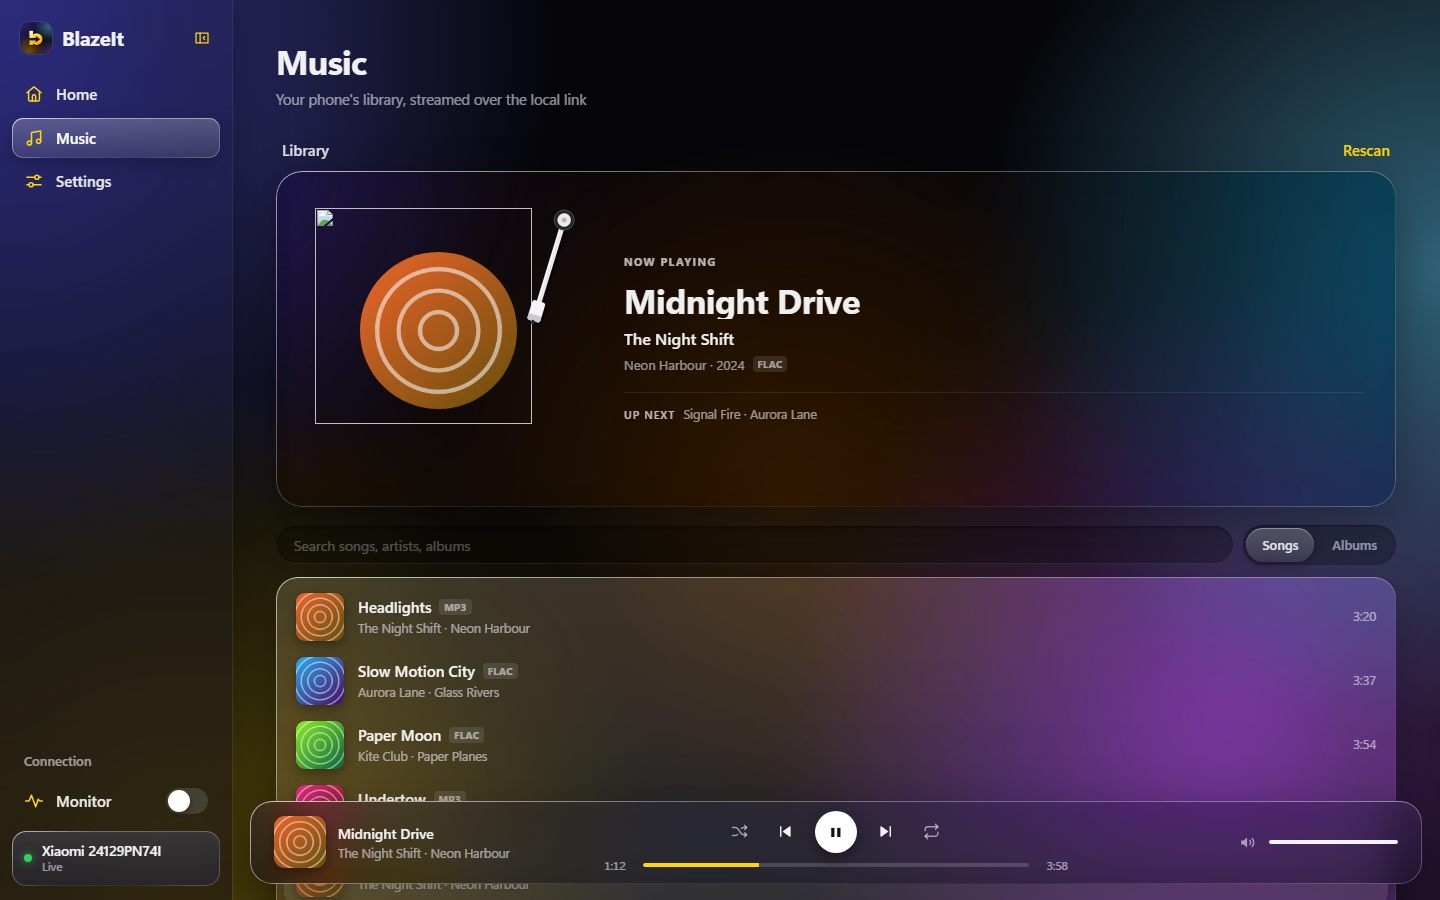
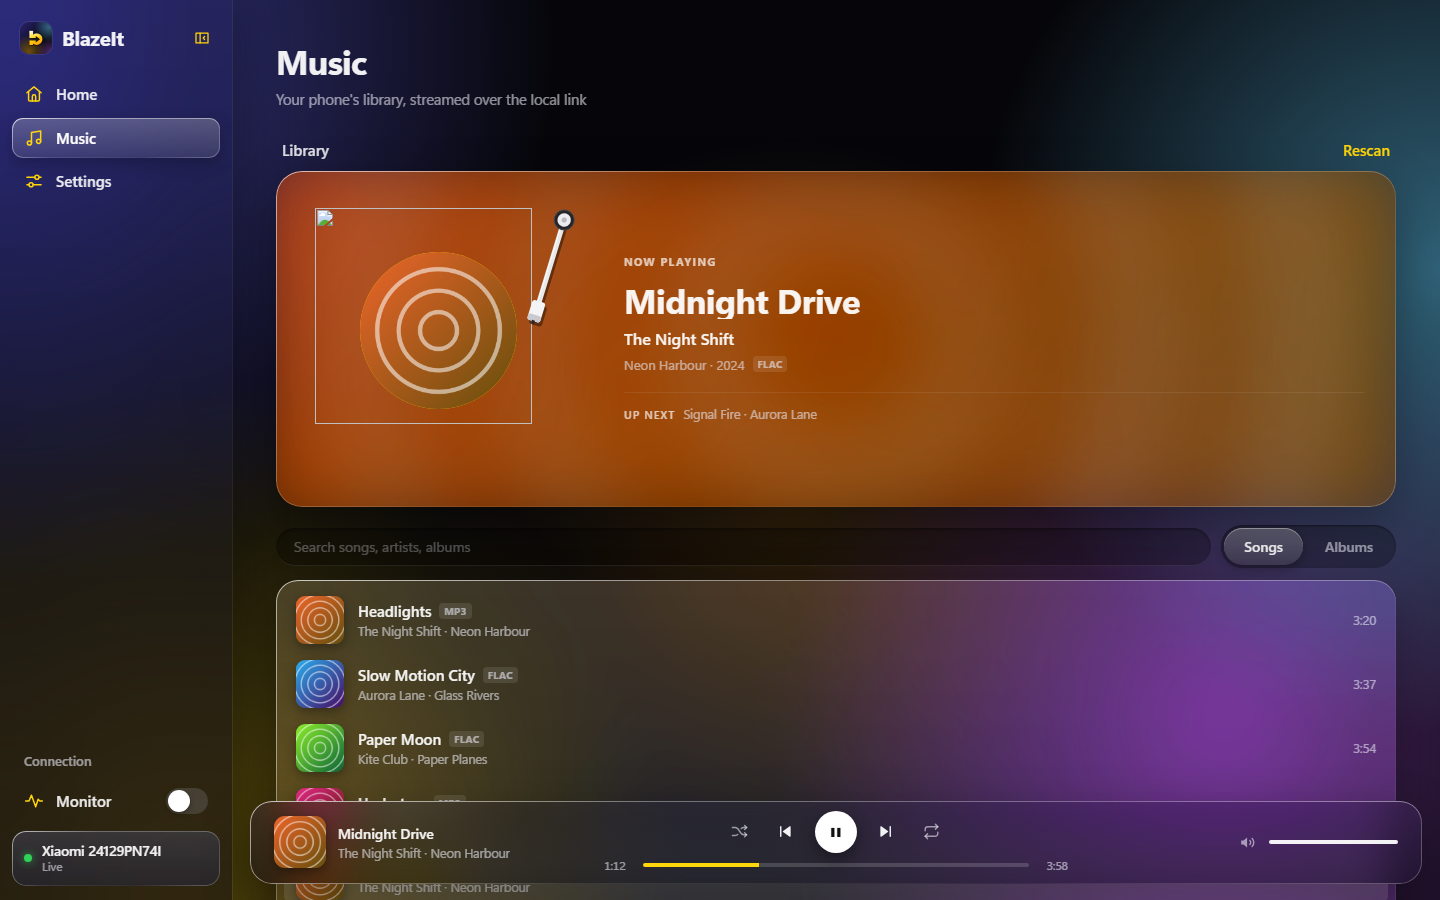
Page: fills the width when the sidebar folds; albums you can reach and play
The page no longer stops at a fixed width, so folding the sidebar or closing the monitor
gives the room to the page. Album tiles are buttons (Tab, Enter) with a play button over
the cover. An opened album shows a header like iOS Music -- large cover, title, artist,
song count, length and year -- with Play and Shuffle, and a clear back button. The
Songs/Albums switch is larger.

diff --git a/app/src/main/assets/bridge.html b/app/src/main/assets/bridge.html
@@ -685,6 +685,43 @@
   .steps li::marker { color: var(--accent); font-weight: 700; }
 
   @media (max-width: 900px) { .tabs::before, .side-foot::before { display: none; } }
+
+  /* the page fills whatever the sidebar and the monitor leave, folded or not */
+  .main > * { max-width: none; }
+
+  /* Songs / Albums: a proper switch */
+  #music-view button { padding: 8px 20px; font-size: 14px; }
+
+  /* albums: buttons you can reach with the keyboard, with a play button over the cover */
+  .albums { grid-template-columns: repeat(auto-fill, minmax(170px, 1fr)); gap: 18px 14px; }
+  button.album { display: block; width: 100%; padding: 8px; border: 0; border-radius: 16px; background: transparent; color: inherit; font: inherit; text-align: left; cursor: pointer; }
+  button.album:focus-visible { outline: 2px solid var(--accent); outline-offset: 2px; }
+  .album .art { position: relative; }
+  .album-play { position: absolute; right: 10px; bottom: 10px; width: 40px; height: 40px; border-radius: 50%; display: grid; place-items: center;
+    color: #111; background: linear-gradient(180deg, #FFE45C, #FFC400); box-shadow: 0 6px 16px rgba(0,0,0,.45);
+    opacity: 0; transform: translateY(6px); transition: opacity .15s, transform .15s; }
+  .album-play svg { width: 20px; height: 20px; margin-left: 2px; }
+  button.album:hover .album-play, button.album:focus-visible .album-play { opacity: 1; transform: none; }
+  .album-play:hover { filter: brightness(1.08); }
+
+  /* an opened album, as iOS Music shows it */
+  .album-page { display: block; margin: 0 0 14px; }
+  .album-page .back { display: inline-flex; align-items: center; gap: 4px; margin: 0 0 14px -6px; padding: 6px 12px 6px 6px; border: 0; border-radius: 999px;
+    background: transparent; color: var(--accent); font: inherit; font-size: 15px; font-weight: 600; cursor: pointer; }
+  .album-page .back:hover { background: rgba(255,214,10,.1); }
+  .album-page .back svg { width: 20px; height: 20px; fill: none; stroke: currentColor; stroke-width: 2.2; stroke-linecap: round; stroke-linejoin: round; }
+  .album-head { display: flex; align-items: flex-end; gap: 28px; padding: 22px; border-radius: 26px;
+    background: var(--glass-fill); box-shadow: var(--lift); position: relative; }
+  .album-cover .cover { width: 200px; height: 200px; flex: 0 0 200px; border-radius: 16px; box-shadow: 0 18px 44px rgba(0,0,0,.5); font-size: 48px; }
+  .album-info { min-width: 0; }
+  .album-info .kicker { font-size: 12px; font-weight: 700; letter-spacing: 1.2px; text-transform: uppercase; color: var(--sub); }
+  .album-info h2 { margin: 6px 0 2px; font-size: 30px; font-weight: 700; letter-spacing: -.5px; line-height: 1.12; }
+  .album-info .by { font-size: 17px; font-weight: 600; color: var(--accent); }
+  .album-info .facts { margin-top: 6px; font-size: 13px; color: var(--sub); }
+  .album-actions { display: flex; gap: 10px; margin-top: 18px; }
+  .album-actions .btn { height: 40px; padding: 0 22px; gap: 8px; }
+  .album-actions .btn svg { width: 17px; height: 17px; }
+  @media (max-width: 700px) { .album-head { flex-direction: column; align-items: flex-start; } }
 </style>
 </head>
 <body>
@@ -2424,23 +2461,37 @@ function renderMusic() {
   host.innerHTML = ""; more.innerHTML = "";
 
   if (music.album !== null) {
-    var a = music.tracks.find(function (t) { return t.albumId === music.album; });
+    var tracks = music.tracks.filter(function (t) { return t.albumId === music.album; });
+    var a = tracks[0];
+    var secs = tracks.reduce(function (n, t) { return n + t.durationMs / 1000; }, 0);
+    var years = tracks.map(function (t) { return t.year; }).filter(function (y) { return y > 0; });
     crumb.hidden = false;
-    crumb.innerHTML = "";
-    var back = document.createElement("button");
-    back.className = "btn sm ghost";
-    back.textContent = "← All albums";
-    back.onclick = function () { music.album = null; music.view = "albums"; setViewButtons(); renderMusic(); };
-    var playAll = document.createElement("button");
-    playAll.className = "btn sm";
-    playAll.textContent = "Play album";
-    playAll.onclick = function () { startQueue(musicMatches(), 0); };
-    var title = document.createElement("span");
-    title.className = "meta";
-    title.style.alignSelf = "center";
-    title.textContent = a ? a.album + " · " + a.artist : "";
-    crumb.appendChild(back); crumb.appendChild(playAll); crumb.appendChild(title);
+    crumb.className = "album-page";
+    crumb.innerHTML =
+      '<button type="button" class="back" id="album-back">' +
+        '<svg viewBox="0 0 24 24" aria-hidden="true"><path d="M14.5 5.5 8 12l6.5 6.5"/></svg>Albums</button>' +
+      '<div class="album-head">' +
+        '<div class="album-cover"></div>' +
+        '<div class="album-info">' +
+          '<div class="kicker">Album</div>' +
+          '<h2></h2><div class="by"></div>' +
+          '<div class="facts"></div>' +
+          '<div class="album-actions">' +
+            '<button type="button" class="btn" id="album-play">' + "<svg viewBox=\"0 0 24 24\" aria-hidden=\"true\"><path fill=\"currentColor\" d=\"M8 5.6v12.8a.9.9 0 0 0 1.4.8l10-6.4a.9.9 0 0 0 0-1.6l-10-6.4A.9.9 0 0 0 8 5.6Z\"/></svg>" + 'Play</button>' +
+            '<button type="button" class="btn ghost" id="album-shuffle">' + "<svg viewBox=\"0 0 24 24\" aria-hidden=\"true\" fill=\"none\" stroke=\"currentColor\" stroke-width=\"2\" stroke-linecap=\"round\" stroke-linejoin=\"round\"><path d=\"M3 7h3.5c2.5 0 3.8 1.3 5.3 4.2l.4.6c1.5 2.9 2.8 4.2 5.3 4.2H21\"/><path d=\"M3 17h3.5c1.4 0 2.4-.4 3.3-1.2M14.2 8.2C15.1 7.4 16.1 7 17.5 7H21\"/><path d=\"m18.5 4.5 2.5 2.5-2.5 2.5M18.5 13.5l2.5 2.5-2.5 2.5\"/></svg>" + 'Shuffle</button>' +
+          '</div>' +
+        '</div>' +
+      '</div>';
+    crumb.querySelector(".album-cover").appendChild(coverEl("cover", music.album));
+    crumb.querySelector("h2").textContent = a ? a.album : "";
+    crumb.querySelector(".by").textContent = a ? a.artist : "";
+    crumb.querySelector(".facts").textContent = tracks.length + (tracks.length === 1 ? " song" : " songs") +
+      " · " + Math.round(secs / 60) + " min" + (years.length ? " · " + Math.max.apply(null, years) : "");
+    $("album-back").onclick = function () { music.album = null; music.view = "albums"; setViewButtons(); renderMusic(); };
+    $("album-play").onclick = function () { playAlbum(music.album, false); };
+    $("album-shuffle").onclick = function () { playAlbum(music.album, true); };
   } else {
+    crumb.className = "actions";
     crumb.hidden = true;
   }
 
@@ -2504,9 +2555,18 @@ function renderAlbums(host) {
   var grid = document.createElement("div");
   grid.className = "albums";
   albums.forEach(function (a) {
-    var tile = document.createElement("div");
+    var tile = document.createElement("button");
+    tile.type = "button";
     tile.className = "album";
-    tile.appendChild(coverEl("art", a.albumId));
+    tile.setAttribute("aria-label", a.album + " by " + a.artist + ", " + a.count + (a.count === 1 ? " track" : " tracks"));
+    var art = coverEl("art", a.albumId);
+    var play = document.createElement("span");
+    play.className = "album-play";
+    play.title = "Play " + a.album;
+    play.innerHTML = "<svg viewBox=\"0 0 24 24\" aria-hidden=\"true\"><path fill=\"currentColor\" d=\"M8 5.6v12.8a.9.9 0 0 0 1.4.8l10-6.4a.9.9 0 0 0 0-1.6l-10-6.4A.9.9 0 0 0 8 5.6Z\"/></svg>";
+    play.onclick = function (e) { e.stopPropagation(); playAlbum(a.albumId, false); };
+    art.appendChild(play);
+    tile.appendChild(art);
     var cap = document.createElement("div");
     cap.className = "cap";
     cap.innerHTML = '<div class="t"></div><div class="a"></div>';
@@ -2517,6 +2577,15 @@ function renderAlbums(host) {
     grid.appendChild(tile);
   });
   host.appendChild(grid);
+}
+
+function playAlbum(albumId, shuffled) {
+  var list = music.tracks.filter(function (t) { return t.albumId === albumId; })
+    .sort(function (x, y) { return (x.disc - y.disc) || (x.track - y.track); });
+  if (!list.length) return;
+  player.shuffle = !!shuffled;
+  $("pl-shuffle").classList.toggle("on", player.shuffle);
+  startQueue(list, shuffled ? Math.floor(Math.random() * list.length) : 0);
 }
 
 function setViewButtons() {

diff --git a/README.md b/README.md
@@ -198,6 +198,10 @@ floats at the bottom as its own piece of glass.
 | --- | --- |
 | <img src="docs/images/web-music.png" width="420" alt="Music, aurora"> | <img src="docs/images/web-oled.png" width="420" alt="Music, OLED black"> |
 
+Albums open like iOS Music: the cover large, the artist, the length, and Play or Shuffle.
+
+<img src="docs/images/web-album.png" width="620" alt="An album page">
+
 ---
 
 ## Getting started
